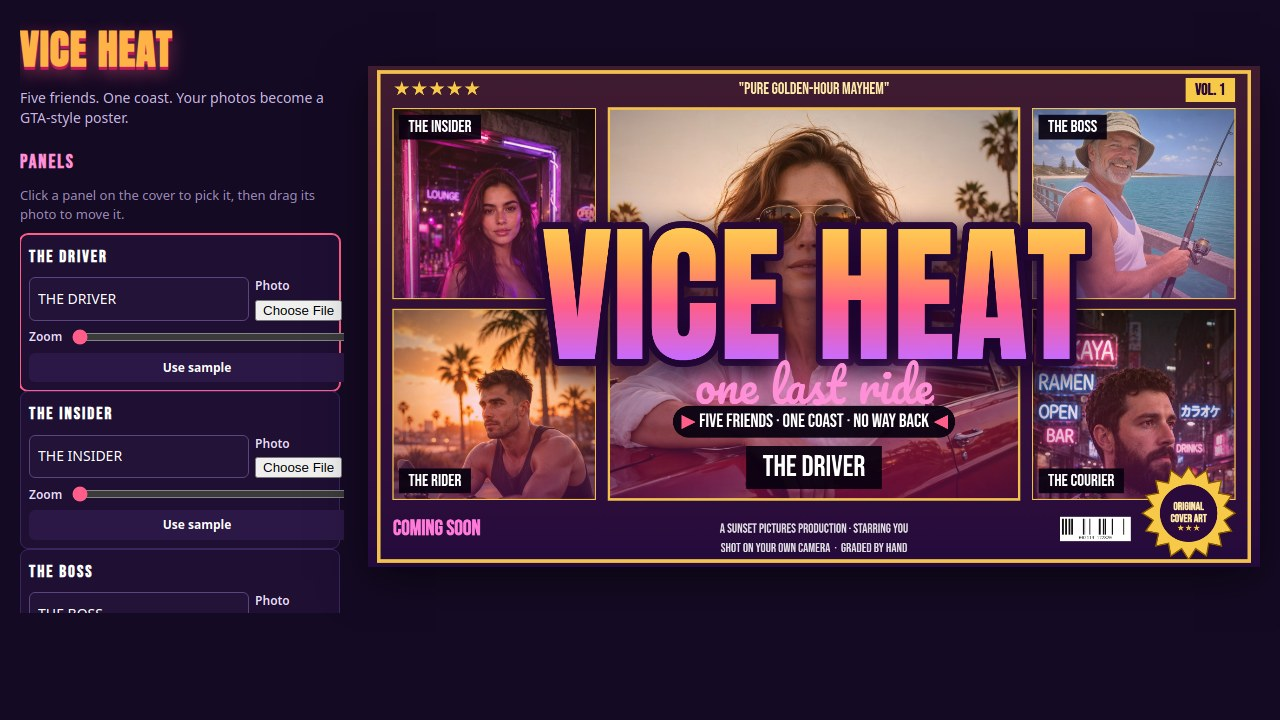
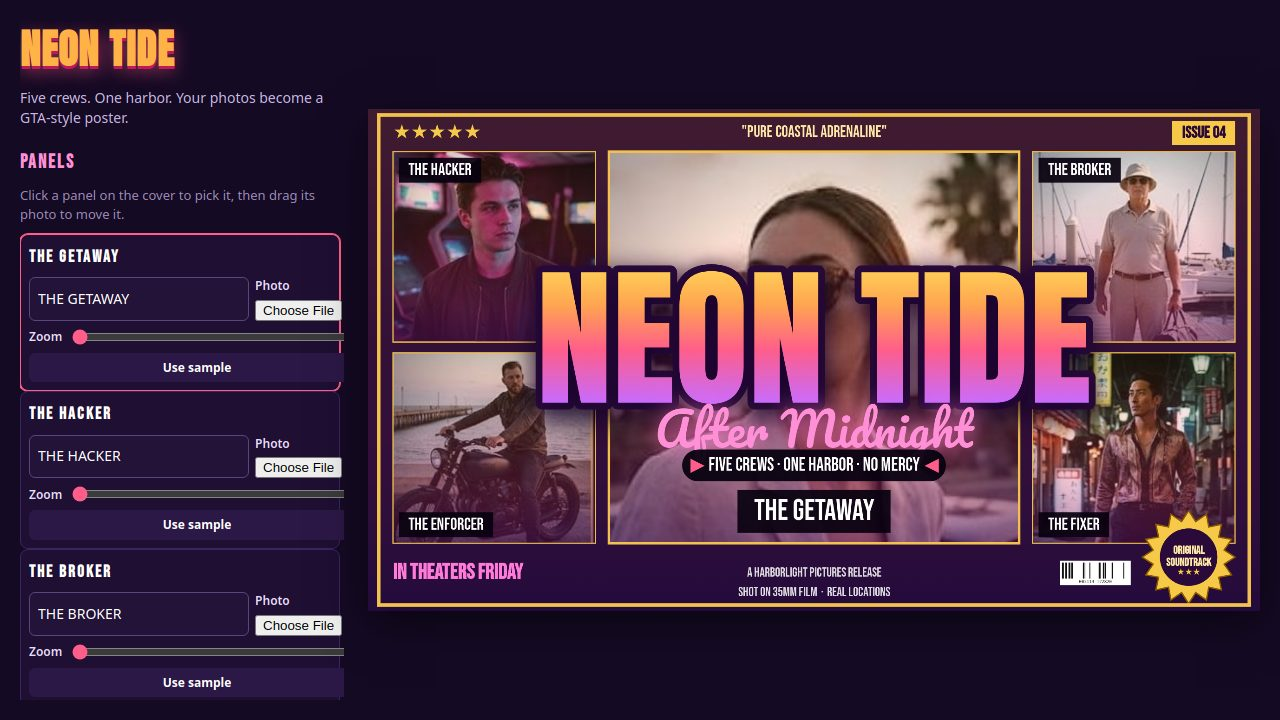
Neon Tide: rebuild default cover from Yans's Gemini poster (5 neon crew photos, ISSUE 04, Original Soundtrack seal)
- 5 sample photos cropped from the Gemini NEON TIDE poster
  (neon-hero/hacker/broker/enforcer/fixer); faces intact, built-in
  callout chips and seal excluded from the crops
- Default cover retitled to NEON TIDE / After Midnight, tagline
  FIVE CREWS · ONE HARBOR · NO MERCY, quote PURE COASTAL
  ADRENALINE, top-bar chip ISSUE 04, bottom line IN THEATERS
  FRIDAY, billing A HARBORLIGHT PICTURES RELEASE / SHOT ON 35MM
  FILM · REAL LOCATIONS, seal ORIGINAL SOUNDTRACK
- Stacked-layout subtitle raised (0.625 -> 0.60) so the script
  clears the top-row callout chips in portrait/square
- 4 screenshots regenerated from the new cover (all <=256 KiB);
  main.ts output byte-identical across two runs

diff --git a/app/src/cover.js b/app/src/cover.js
@@ -1,4 +1,4 @@
-// Vice Heat cover renderer: draws a multi-panel GTA-style poster onto a canvas.
+// Neon Tide cover renderer: draws a multi-panel GTA-style poster onto a canvas.
 // The cover is built from a state object:
 //   { size: {w, h}, grade, title, subtitle, tagline, quote, studio,
 //     panels: [{ id, photo, label, zoom, ox, oy }] }
@@ -53,7 +53,7 @@ export function layoutFor(w, h) {
   panels.push({ id: 'boss', x: rx0, y: gridTop, w: rx1 - rx0, h: gridMid - gap / 2 - gridTop });
   panels.push({ id: 'rider', x: lx0, y: gridMid + gap / 2, w: lx1 - lx0, h: bot - (gridMid + gap / 2) });
   panels.push({ id: 'courier', x: rx0, y: gridMid + gap / 2, w: rx1 - rx0, h: bot - (gridMid + gap / 2) });
-  return { panels, stacked, titleY: 0.545 * h, subtitleY: 0.625 * h, taglineY: 0.71 * h, billingY: 0.925 * h, topBarY: 0.048 * h };
+  return { panels, stacked, titleY: 0.545 * h, subtitleY: 0.60 * h, taglineY: 0.71 * h, billingY: 0.925 * h, topBarY: 0.048 * h };
 }
 
 // Draws one panel photo cover-fit inside rect, with a zoom factor and a pan
@@ -172,7 +172,7 @@ function drawTitle(ctx, w, layout, title, subtitle) {
   }
 }
 
-// Top bar: five gold stars, the press quote, and a VOL. 1 chip.
+// Top bar: five gold stars, the press quote, and an ISSUE 04 chip.
 function drawTopBar(ctx, w, layout, quote) {
   const y = layout.topBarY;
   const starSize = w * 0.022;
@@ -189,7 +189,7 @@ function drawTopBar(ctx, w, layout, quote) {
     ctx.textAlign = 'center';
     ctx.fillText(`"${q}"`, w / 2, y);
   }
-  const chip = 'VOL. 1';
+  const chip = 'ISSUE 04';
   const size = w * 0.018;
   ctx.font = `bold ${size}px "Bebas Neue", sans-serif`;
   const tw = ctx.measureText(chip).width;
@@ -239,10 +239,10 @@ function drawBilling(ctx, w, layout, studio) {
   ctx.textAlign = 'center';
   ctx.textBaseline = 'middle';
   ctx.fillText(line, w / 2, layout.billingY);
-  ctx.fillText('SHOT ON YOUR OWN CAMERA  ·  GRADED BY HAND', w / 2, layout.billingY + size * 1.5);
+  ctx.fillText('SHOT ON 35MM FILM  ·  REAL LOCATIONS', w / 2, layout.billingY + size * 1.5);
 }
 
-// A gold starburst seal reading ORIGINAL COVER ART.
+// A gold starburst seal reading ORIGINAL SOUNDTRACK.
 function drawSeal(ctx, cx, cy, r) {
   ctx.save();
   ctx.translate(cx, cy);
@@ -272,7 +272,7 @@ function drawSeal(ctx, cx, cy, r) {
   const s = r * 0.24;
   ctx.font = `bold ${s}px "Bebas Neue", sans-serif`;
   ctx.fillText('ORIGINAL', 0, -s * 0.55);
-  ctx.fillText('COVER ART', 0, s * 0.55);
+  ctx.fillText('SOUNDTRACK', 0, s * 0.55);
   ctx.font = `${s * 0.8}px sans-serif`;
   ctx.fillStyle = '#f7c948';
   ctx.fillText('★★★', 0, s * 1.35);
@@ -338,13 +338,13 @@ export function drawCoverArt(canvas, state) {
   drawTopBar(ctx, w, layout, state.quote);
   drawTitle(ctx, w, layout, state.title, state.subtitle);
   drawTagline(ctx, w, layout, state.tagline);
-  // COMING SOON, bottom left.
+  // IN THEATERS FRIDAY, bottom left.
   const csSize = w * 0.024;
   ctx.font = `bold ${csSize}px "Bebas Neue", sans-serif`;
   ctx.fillStyle = '#ff7ad9';
   ctx.textAlign = 'left';
   ctx.textBaseline = 'middle';
-  ctx.fillText('COMING SOON', w * 0.028, layout.billingY);
+  ctx.fillText('IN THEATERS FRIDAY', w * 0.028, layout.billingY);
   drawBilling(ctx, w, layout, state.studio);
   // Seal and barcode, bottom right.
   const sealR = w * 0.052;

diff --git a/app/src/main.js b/app/src/main.js
@@ -1,4 +1,4 @@
-// Vice Heat editor: wires the controls to the cover renderer. The state holds
+// Neon Tide editor: wires the controls to the cover renderer. The state holds
 // the five panels (each with its photo, callout label, zoom and pan), the
 // lettering and the grade; every change redraws the preview canvas at the
 // chosen export size, and Export downloads exactly that drawing as a PNG.
@@ -11,22 +11,25 @@ const status = document.getElementById('status');
 
 // Five panels, each with a default sample photo, a callout role and a focus
 // point (the face, as a fraction of the photo's height) the crop centres on.
+// Default cover is NEON TIDE: the five crew photos cropped from Yans's
+// Gemini poster (neon-*.jpg), callouts THE GETAWAY / THE HACKER / THE BROKER
+// / THE ENFORCER / THE FIXER.
 const PANEL_DEFS = [
-  { id: 'hero', label: 'THE DRIVER', sample: 'hero.jpg', oy: 0, focus: 0.30 },
-  { id: 'insider', label: 'THE INSIDER', sample: 'insider.jpg', oy: 0, focus: 0.30 },
-  { id: 'boss', label: 'THE BOSS', sample: 'pier.jpg', oy: 0, focus: 0.22 },
-  { id: 'rider', label: 'THE RIDER', sample: 'rider.jpg', oy: 0, focus: 0.28 },
-  { id: 'courier', label: 'THE COURIER', sample: 'courier.jpg', oy: 0.08, focus: 0.28 },
+  { id: 'hero', label: 'THE GETAWAY', sample: 'neon-hero.jpg', oy: 0, focus: 0.35 },
+  { id: 'insider', label: 'THE HACKER', sample: 'neon-hacker.jpg', oy: 0, focus: 0.30 },
+  { id: 'boss', label: 'THE BROKER', sample: 'neon-broker.jpg', oy: 0, focus: 0.22 },
+  { id: 'rider', label: 'THE ENFORCER', sample: 'neon-enforcer.jpg', oy: 0, focus: 0.28 },
+  { id: 'courier', label: 'THE FIXER', sample: 'neon-fixer.jpg', oy: 0, focus: 0.30 },
 ];
 
 const state = {
   sizeKey: 'landscape',
   grade: 'sunset',
-  title: 'VICE HEAT',
-  subtitle: 'one last ride',
-  tagline: 'FIVE FRIENDS · ONE COAST · NO WAY BACK',
-  quote: 'PURE GOLDEN-HOUR MAYHEM',
-  studio: 'A SUNSET PICTURES PRODUCTION · STARRING YOU',
+  title: 'NEON TIDE',
+  subtitle: 'After Midnight',
+  tagline: 'FIVE CREWS · ONE HARBOR · NO MERCY',
+  quote: 'PURE COASTAL ADRENALINE',
+  studio: 'A HARBORLIGHT PICTURES RELEASE',
   panels: PANEL_DEFS.map((d) => ({ ...d, photo: null, zoom: 1, ox: 0, oy: d.oy ?? 0 })),
 };
 
@@ -194,9 +197,9 @@ document.getElementById('export').addEventListener('click', () => {
     const a = document.createElement('a');
     a.href = URL.createObjectURL(blob);
     const s = currentSize();
-    a.download = `vice-heat-${s.w}x${s.h}.png`;
+    a.download = `neon-tide-${s.w}x${s.h}.png`;
     a.click();
-    status.textContent = `Saved vice-heat-${s.w}x${s.h}.png`;
+    status.textContent = `Saved neon-tide-${s.w}x${s.h}.png`;
   }, 'image/png');
 });
 

diff --git a/app/index.html b/app/index.html
@@ -3,14 +3,14 @@
 <head>
 <meta charset="utf-8">
 <meta name="viewport" content="width=device-width, initial-scale=1">
-<title>Vice Heat — GTA-style cover studio</title>
+<title>Neon Tide — GTA-style cover studio</title>
 <link rel="stylesheet" href="./style.css">
 </head>
 <body>
 <main class="app">
   <section class="controls" aria-label="Cover controls">
-    <h1>VICE HEAT</h1>
-    <p class="tag">Five friends. One coast. Your photos become a GTA-style poster.</p>
+    <h1>NEON TIDE</h1>
+    <p class="tag">Five crews. One harbor. Your photos become a GTA-style poster.</p>
 
     <h2>Panels</h2>
     <p class="hint">Click a panel on the cover to pick it, then drag its photo to move it.</p>
@@ -18,11 +18,11 @@
     <button id="fill-all" type="button">Fill all panels with the hero photo</button>
 
     <h2>Lettering</h2>
-    <label>Title <input id="title" type="text" maxlength="16" value="VICE HEAT"></label>
-    <label>Script line <input id="subtitle" type="text" maxlength="30" value="one last ride"></label>
-    <label>Tagline <input id="tagline" type="text" maxlength="60" value="FIVE FRIENDS · ONE COAST · NO WAY BACK"></label>
-    <label>Press quote <input id="quote" type="text" maxlength="40" value="PURE GOLDEN-HOUR MAYHEM"></label>
-    <label>Studio line <input id="studio" type="text" maxlength="60" value="A SUNSET PICTURES PRODUCTION · STARRING YOU"></label>
+    <label>Title <input id="title" type="text" maxlength="16" value="NEON TIDE"></label>
+    <label>Script line <input id="subtitle" type="text" maxlength="30" value="After Midnight"></label>
+    <label>Tagline <input id="tagline" type="text" maxlength="60" value="FIVE CREWS · ONE HARBOR · NO MERCY"></label>
+    <label>Press quote <input id="quote" type="text" maxlength="40" value="PURE COASTAL ADRENALINE"></label>
+    <label>Studio line <input id="studio" type="text" maxlength="60" value="A HARBORLIGHT PICTURES RELEASE"></label>
 
     <h2>Colour grade</h2>
     <div id="grades" class="grades"></div>

diff --git a/app/src/shots.js b/app/src/shots.js
@@ -22,7 +22,7 @@ export async function runShot(shot, query, state, app) {
   if (shot === 'cover') document.body.classList.add('shot-cover');
   // Make sure every panel has its sample photo before the first paint.
   if (state) {
-    const samples = { hero: 'hero.jpg', insider: 'insider.jpg', boss: 'pier.jpg', rider: 'rider.jpg', courier: 'courier.jpg' };
+    const samples = { hero: 'neon-hero.jpg', insider: 'neon-hacker.jpg', boss: 'neon-broker.jpg', rider: 'neon-enforcer.jpg', courier: 'neon-fixer.jpg' };
     for (const p of state.panels) {
       if (!p.photo) {
         try { p.photo = await app.loadImage(`samples/${samples[p.id]}`); } catch { /* leave empty */ }
